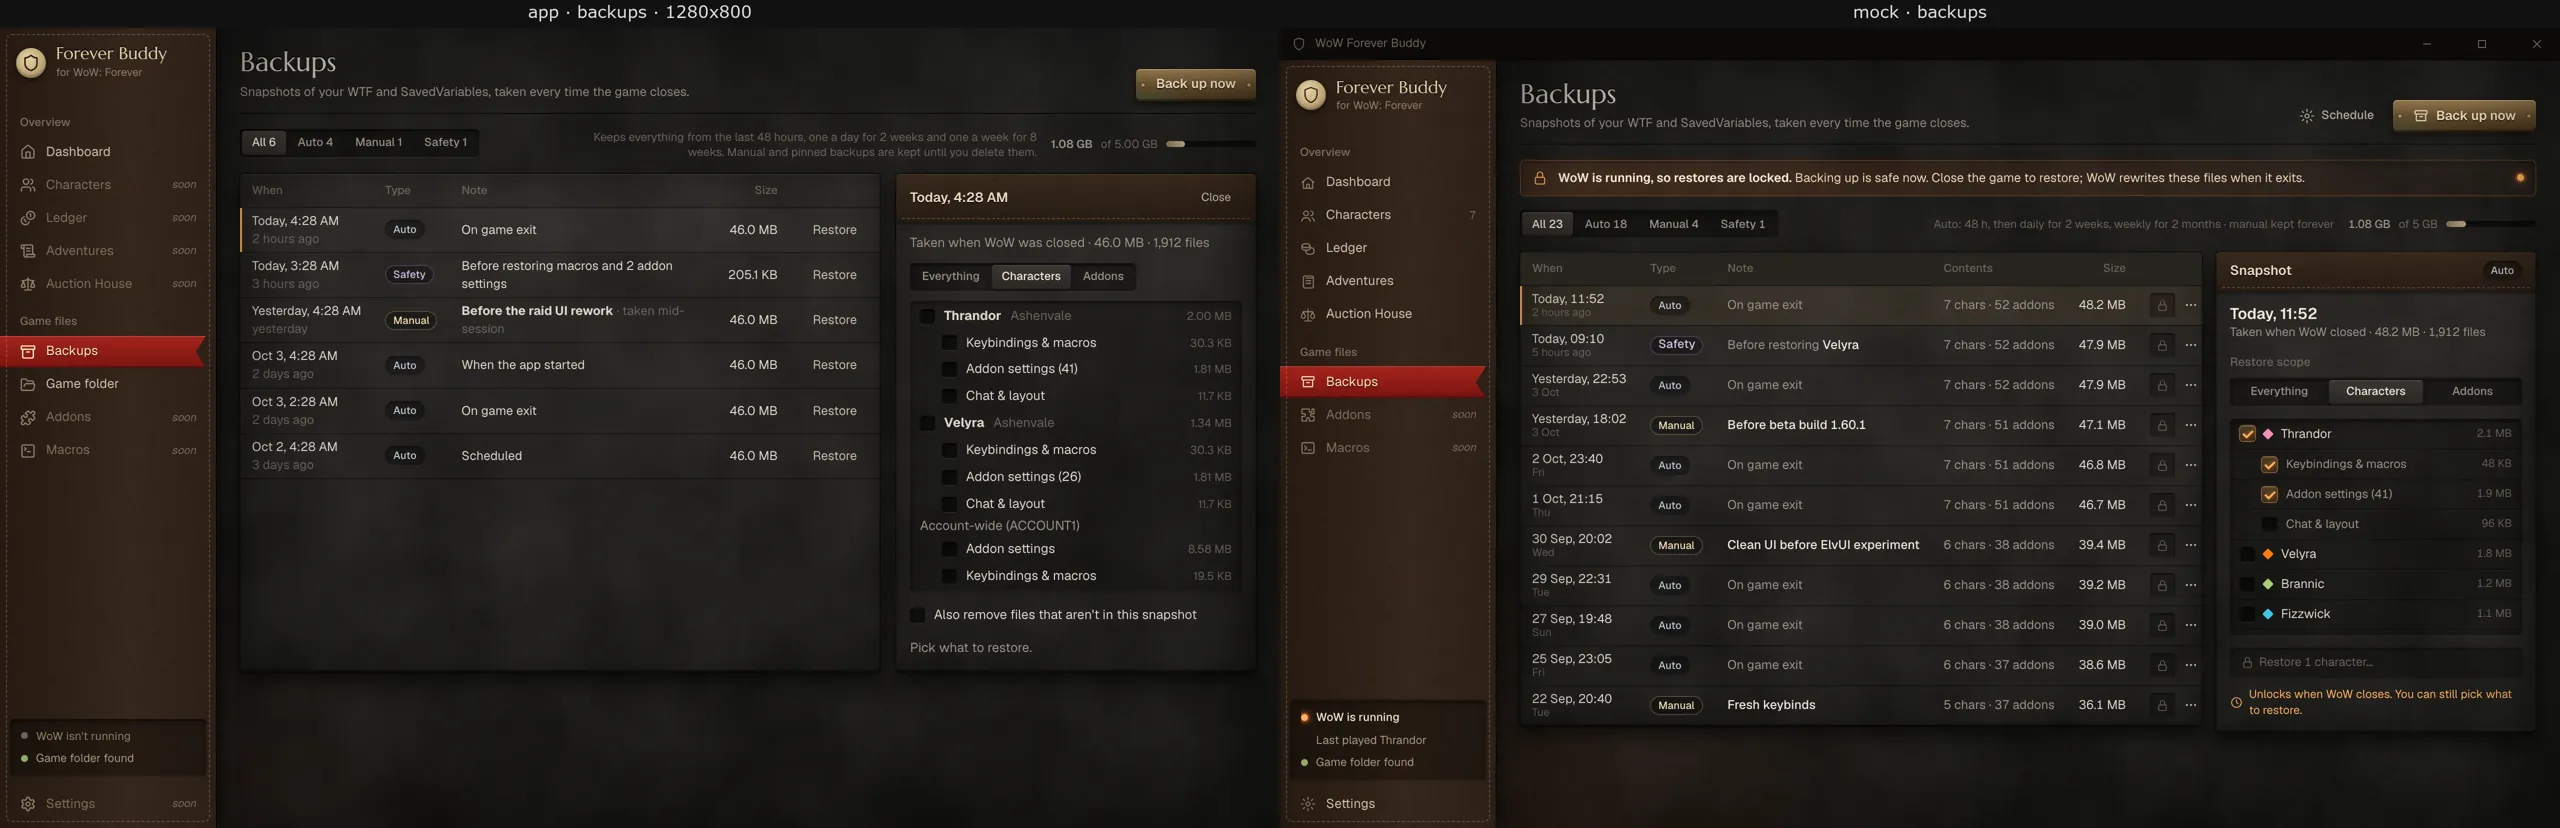
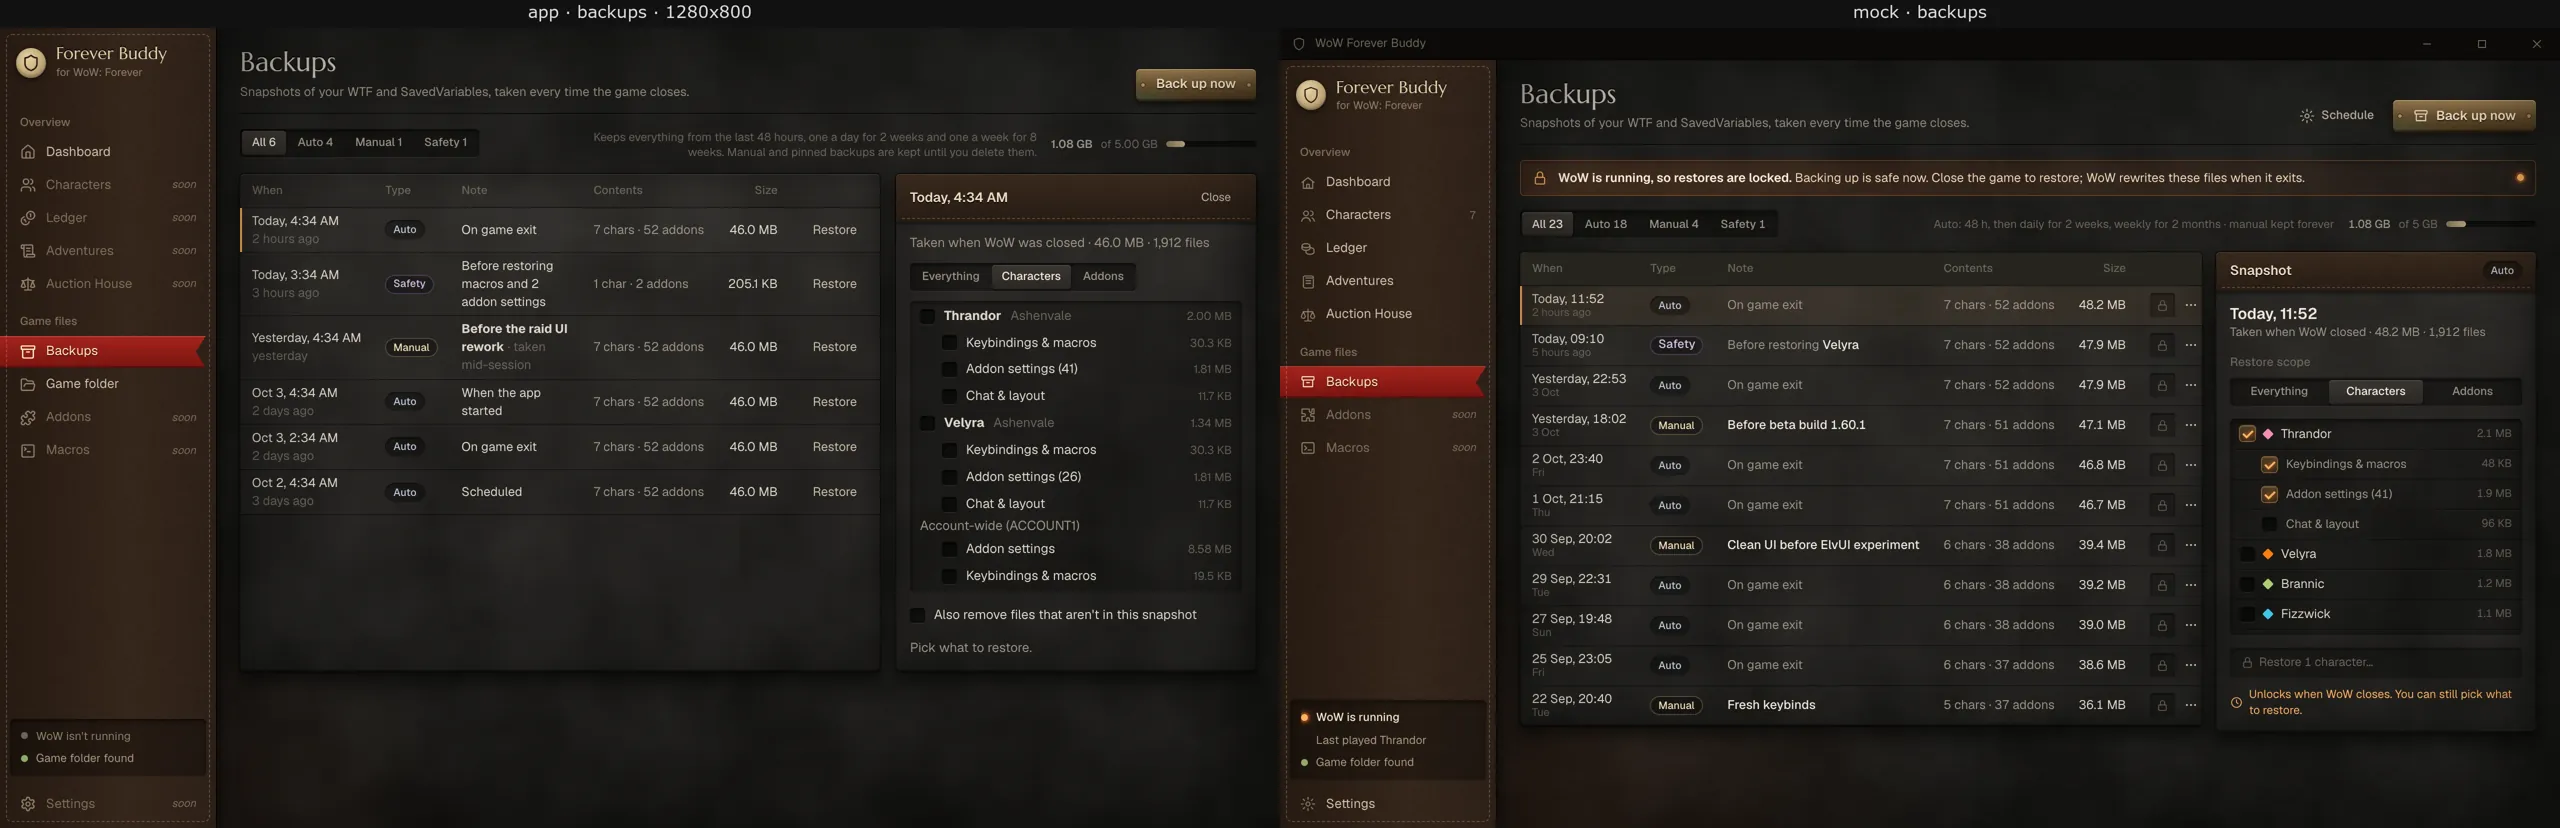
S1: PM review items 1-3
- Backups: Contents column ('7 chars · 52 addons') always shown; hidden
  beside the panel only in the 1024 layout. Renamed the class from
  'contents', which is Tailwind's display: contents utility.
- Restore confirm: "Thrandor's macros and 2 addon settings will be
  replaced with the copy from today, 4:33 AM." Paths in Windows form,
  shortened past the account (…\Ashenvale\Thrandor\…), full path on hover.
  Footer copy matches the re-check rule.
- Onboarding: the 3-step stepper, and 'Looked in' as one sentence
  (registry, Program Files, \Games and \World of Warcraft on drives …).
- Comparison pairs updated.

diff --git a/src/screens/Backups.tsx b/src/screens/Backups.tsx
@@ -79,7 +79,7 @@ function note(s: SnapshotSummary) {
 
 function contents(s: SnapshotSummary) {
   const parts = [];
-  if (s.char_count > 0) parts.push(plural(s.char_count, "character", "characters"));
+  if (s.char_count > 0) parts.push(plural(s.char_count, "char", "chars"));
   if (s.addon_count > 0) parts.push(plural(s.addon_count, "addon", "addons"));
   if (parts.length === 0) parts.push(plural(s.file_count, "file", "files"));
   return parts.join(" · ");
@@ -119,7 +119,9 @@ function toSelection(keys: Keys): RestoreSelection {
   return { items };
 }
 
-function restoreLabel(keys: Keys): { button: string; title: string } {
+/** Button and dialog title for the current selection, and `who` when it's
+ *  exactly one character ("Thrandor's keybindings… will be replaced"). */
+function restoreLabel(keys: Keys): { button: string; title: string; who?: string } {
   if (keys.has("all")) return { button: "Restore everything…", title: "Restore everything?" };
   const chars = new Set(
     [...keys].filter((k) => k.startsWith("char|")).map((k) => k.split("|").slice(1, 4).join("|")),
@@ -130,6 +132,7 @@ function restoreLabel(keys: Keys): { button: string; title: string } {
     return {
       button: `Restore ${plural(chars.size, "character", "characters")}…`,
       title: chars.size === 1 ? `Restore ${only}?` : `Restore ${chars.size} characters?`,
+      who: chars.size === 1 ? only : undefined,
     };
   }
   if (addons.length > 0 && chars.size === 0)
@@ -387,7 +390,8 @@ function ConfirmRestore({
   const [id, setId] = useState(chosen);
   const selection = useMemo(() => toSelection(keys), [keys]);
   const again = useCallback(() => preview(id, selection, mode), [id, selection, mode, preview]);
-  const { title } = restoreLabel(keys);
+  const { title, who } = restoreLabel(keys);
+  const takenAt = snapshots.find((s) => s.id === id)?.created_at;
 
   // A plan from before WoW's exit writes is stale. When WoW closes, re-plan
   // and keep Restore locked until that fresh plan is in ("Checking what
@@ -448,7 +452,7 @@ function ConfirmRestore({
           {running ? (
             <span>
               Waiting for WoW to close…{" "}
-              <span className="d-muted">Restore enables automatically when it exits.</span>
+              <span className="d-muted">Restore unlocks once WoW closes and the list is checked again.</span>
             </span>
           ) : (
             <span>WoW closed. Checking what changed…</span>
@@ -500,7 +504,19 @@ function ConfirmRestore({
       {!plan && !planError && <p className="d-muted">Working out what changes…</p>}
       {plan && (
         <>
-          <PlanDetails plan={plan} />
+          <PlanDetails
+            plan={plan}
+            lead={
+              plan.write_count > 0 && takenAt ? (
+                <>
+                  {who ? `${who}'s ` : ""}
+                  {/* The summary's "; removes N" part is listed separately below. */}
+                  <b>{plan.summary.split(";")[0]}</b> will be replaced with the copy from{" "}
+                  <b>{whenInline(takenAt)}</b>.
+                </>
+              ) : undefined
+            }
+          />
           <p className="d-muted">
             A safety snapshot of the current files is taken before anything changes, so you can
             undo this.
@@ -706,13 +722,14 @@ export function Backups({
           )}
           {shown.length > 0 && (
             <DataTable
+              className={selected ? "with-panel" : undefined}
               head={
                 <tr>
                   <th>When</th>
                   <th>Type</th>
                   <th>Note</th>
-                  {/* No room beside the snapshot panel. */}
-                  {!selected && <th>Contents</th>}
+                  {/* Hidden beside the snapshot panel only in the narrow layout (d.css). */}
+                  <th className="col-contents">Contents</th>
                   <th className="num">Size</th>
                   <th />
                 </tr>
@@ -728,7 +745,8 @@ export function Backups({
                     <Pill kind={KIND_PILL[s.kind]}>{KIND_LABEL[s.kind]}</Pill>
                   </td>
                   <td>{note(s)}</td>
-                  {!selected && <td className="d-muted">{contents(s)}</td>}
+                  {/* Not "contents": that's Tailwind's display: contents utility. */}
+                  <td className="col-contents d-muted nowrap">{contents(s)}</td>
                   <td className="num">{bytes(s.total_bytes)}</td>
                   <td onClick={(e) => e.stopPropagation()}>
                     {restoreAction("Restore", () => setSelected(s.id), "ghost")}

diff --git a/src/screens/GameFolder.tsx b/src/screens/GameFolder.tsx
@@ -23,6 +23,25 @@ const SOURCE: Record<InstallCandidate["source"], string> = {
   common_path: "found on disk",
 };
 
+/** "the Windows registry, Program Files, and \Games and \World of Warcraft on
+ *  drives C, D and E": where detection looked, in a sentence. The full list
+ *  goes in the tooltip. */
+function lookedInSummary(looked: { source: string; path: string }[]): string {
+  const parts: string[] = [];
+  if (looked.some((l) => l.source === "registry")) parts.push("the Windows registry");
+  const paths = looked.filter((l) => l.source !== "registry").map((l) => l.path);
+  if (paths.some((p) => /program files/i.test(p))) parts.push("Program Files");
+  const loose = paths.filter((p) => !/program files/i.test(p));
+  const drives = [...new Set(loose.map((p) => p.match(/^([A-Za-z]):/)?.[1]?.toUpperCase()).filter(Boolean))];
+  if (drives.length > 0) {
+    const games = loose.some((p) => /\\games\\/i.test(p)) ? "\\Games and " : "";
+    const list = drives.length > 1 ? `${drives.slice(0, -1).join(", ")} and ${drives[drives.length - 1]}` : drives[0];
+    parts.push(`${games}\\World of Warcraft on ${drives.length > 1 ? "drives" : "drive"} ${list}`);
+  }
+  if (parts.length === 0) return paths.join(", ");
+  return parts.length > 1 ? `${parts.slice(0, -1).join(", ")}, and ${parts[parts.length - 1]}` : parts[0];
+}
+
 /** "7 characters on Ashenvale +2 realms" (count first). */
 function roster(f: Flavor): string {
   if (f.characters === 0) return "no characters yet";
@@ -108,6 +127,17 @@ export function GameFolder({ install: inst }: { install: ReturnType<typeof useIn
     return (
       <Page>
         <div className="d-letter-wrap">
+          <ol className="d-stepper" aria-label="Setup">
+            <li className="on">
+              <span>1</span>Find the game
+            </li>
+            <li>
+              <span>2</span>First backup
+            </li>
+            <li>
+              <span>3</span>Companion addon <i>optional</i>
+            </li>
+          </ol>
           <Record>
             <div className="d-letter">
               <h1>Well met.</h1>
@@ -154,13 +184,8 @@ export function GameFolder({ install: inst }: { install: ReturnType<typeof useIn
                   <div className="d-letter-head">We couldn't find World of Warcraft</div>
                   <p className="d-muted">That's fine; point us at it and we'll take it from there.</p>
                   {looked.length > 0 && (
-                    <p className="d-dim">
-                      Looked in:{" "}
-                      {looked
-                        .slice(0, 4)
-                        .map((l) => l.path)
-                        .join(", ")}
-                      {looked.length > 4 && ` and ${looked.length - 4} more`}.
+                    <p className="d-dim" title={looked.map((l) => l.path).join("\n")}>
+                      Looked in: {lookedInSummary(looked)}.
                     </p>
                   )}
                   <div className="d-hints">

diff --git a/src/screens/PlanDetails.tsx b/src/screens/PlanDetails.tsx
@@ -1,30 +1,46 @@
+import type { ReactNode } from "react";
 import type { RestorePlan } from "@/lib/bindings";
 import { Callout } from "@/components/d";
 import { plural } from "@/lib/format";
+
+/** "WTF/Account/ACCOUNT1/Ashenvale/Thrandor/x.wtf" → "…\Ashenvale\Thrandor\x.wtf":
+ *  Windows separators, and the account prefix every path shares left out.
+ *  The full path stays in the title tooltip. */
+export function shortPath(p: string): string {
+  const parts = p.split(/[\\/]/).filter(Boolean);
+  const i = parts.findIndex((s, n) => s === "Account" && parts[n - 1] === "WTF");
+  return i >= 0 && parts.length > i + 2 ? `…\\${parts.slice(i + 2).join("\\")}` : parts.join("\\");
+}
 
 /** What a restore (or a recovery) will write and remove, for its confirm
  *  step. Deletions are always listed in full. `removedBecause` finishes the
  *  sentence "N files will be removed, because …" for one or many files. */
 export function PlanDetails({
   plan,
+  lead,
   removedBecause = (one) => (one ? "it isn't in this snapshot" : "they aren't in this snapshot"),
 }: {
   plan: RestorePlan;
+  /** The opening sentence; defaults to the backend's summary. */
+  lead?: ReactNode;
   removedBecause?: (one: boolean) => string;
 }) {
   return (
     <>
-      <p>
-        <b>{plan.summary}</b>
-      </p>
+      <p>{lead ?? <b>{plan.summary}</b>}</p>
       {plan.write.length > 0 && (
-        <ul className="d-files">
-          {plan.write.map((f) => (
-            <li key={f.folder}>
-              <span className="d-mono">{f.folder}/</span>{" "}
-              <span className="folder">({plural(f.files.length, "file", "files")})</span>
-            </li>
-          ))}
+        <ul className="d-files d-mono">
+          {plan.write.map((f) =>
+            f.files.length === 1 ? (
+              <li key={f.folder} title={`${f.folder}/${f.files[0]}`}>
+                {shortPath(`${f.folder}/${f.files[0]}`)}
+              </li>
+            ) : (
+              <li key={f.folder} title={f.folder}>
+                {shortPath(f.folder)}\ <span className="folder">({plural(f.files.length, "file", "files")})</span>
+              </li>
+            ),
+          )}
         </ul>
       )}
       {plan.delete.length > 0 && (
@@ -35,7 +51,9 @@ export function PlanDetails({
           </p>
           <ul className="d-files d-mono">
             {plan.delete.map((f) => (
-              <li key={f}>{f}</li>
+              <li key={f} title={f}>
+                {shortPath(f)}
+              </li>
             ))}
           </ul>
         </>

diff --git a/src/styles/d.css b/src/styles/d.css
@@ -306,7 +306,10 @@
 .d-storage .usage { display: inline-flex; align-items: center; gap: 8px; white-space: nowrap; }
 .d-storage .usage b { color: var(--ash); font-weight: 600; }
 .d-storage .d-meter { width: 90px; }
-@media (max-width: 1100px) { .d-storage .retention { max-width: 300px; } }
+@media (max-width: 1100px) {
+  .d-storage .retention { max-width: 300px; }
+  .d-table.with-panel .col-contents { display: none; }
+}
 
 /* ---------- lists ---------- */
 .d-files { font-size: 12px; display: flex; flex-direction: column; gap: 2px; padding: 8px 10px; border-radius: var(--r); background: rgba(0, 0, 0, .3); box-shadow: inset 0 2px 4px rgba(0, 0, 0, .55); }
@@ -364,7 +367,14 @@
 .d-record .d-flavors b, .d-record .d-flavors li.active b { color: var(--ink); }
 
 /* ---------- first run: "Well met." letter ---------- */
-.d-letter-wrap { width: min(600px, 100%); margin: 28px auto 0; display: flex; flex-direction: column; gap: 12px; }
+.d-stepper { list-style: none; margin: 0; padding: 0; display: flex; align-items: center; justify-content: center; gap: 10px; font-size: 12px; color: var(--soot); }
+.d-stepper li { display: flex; align-items: center; gap: 7px; white-space: nowrap; }
+.d-stepper li + li::before { content: ""; width: 34px; height: 1px; margin-right: 3px; background: rgba(255, 255, 255, .1); }
+.d-stepper span { width: 20px; height: 20px; border-radius: 50%; display: grid; place-items: center; font-size: 11px; font-weight: 600; background: rgba(0, 0, 0, .35); box-shadow: inset 0 1px 2px rgba(0, 0, 0, .6); }
+.d-stepper li.on { color: var(--chalk-hi); }
+.d-stepper li.on span { color: #2a1608; background: radial-gradient(circle at 40% 35%, var(--ember-2), var(--ember)); box-shadow: 0 0 8px rgba(255, 122, 46, .5); }
+.d-stepper i { font-family: Georgia, serif; color: var(--soot); }
+.d-letter-wrap { width: min(600px, 100%); margin: 16px auto 0; display: flex; flex-direction: column; gap: 12px; }
 .d-letter { padding: 26px 30px 24px; display: flex; flex-direction: column; gap: 12px; }
 .d-letter h1 { font: 400 30px/1.15 "Marcellus", Georgia, serif; color: var(--ink); }
 .d-letter > p.d-muted:first-of-type { font-size: 13.5px; }

diff --git a/src/components/d/index.tsx b/src/components/d/index.tsx
@@ -163,9 +163,13 @@ export function Checkbox({
   );
 }
 
-export function DataTable({ head, children }: Children & { head: ReactNode }) {
+export function DataTable({
+  head,
+  children,
+  className,
+}: Children & { head: ReactNode; className?: string }) {
   return (
-    <table className="d-table">
+    <table className={`d-table ${className ?? ""}`}>
       <thead>{head}</thead>
       <tbody>{children}</tbody>
     </table>
